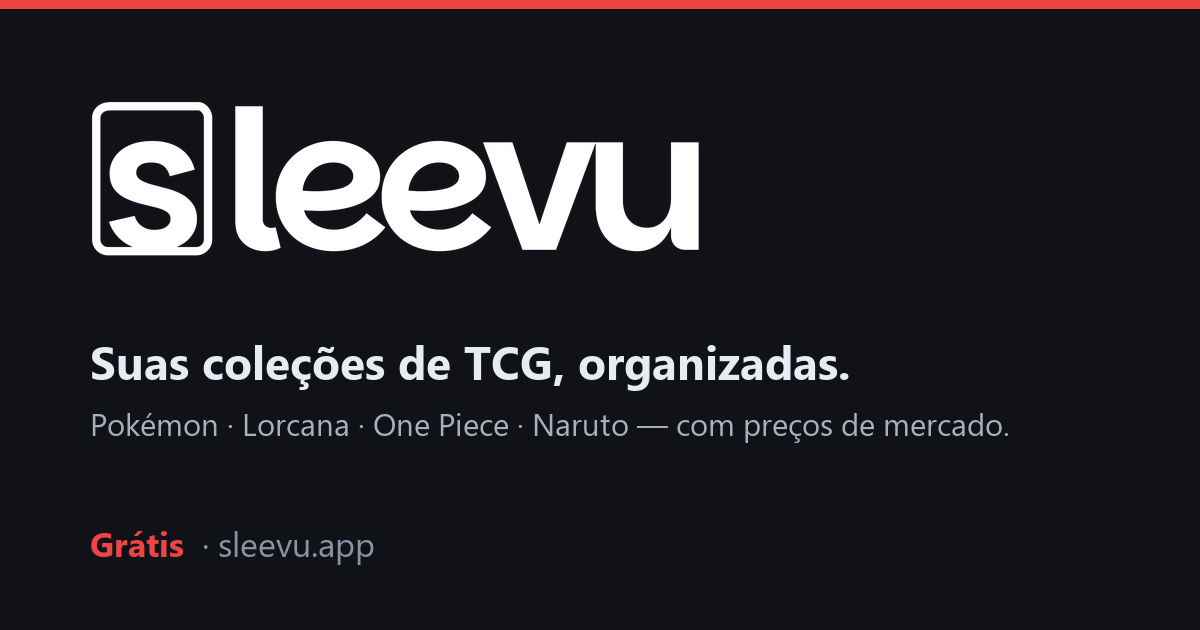
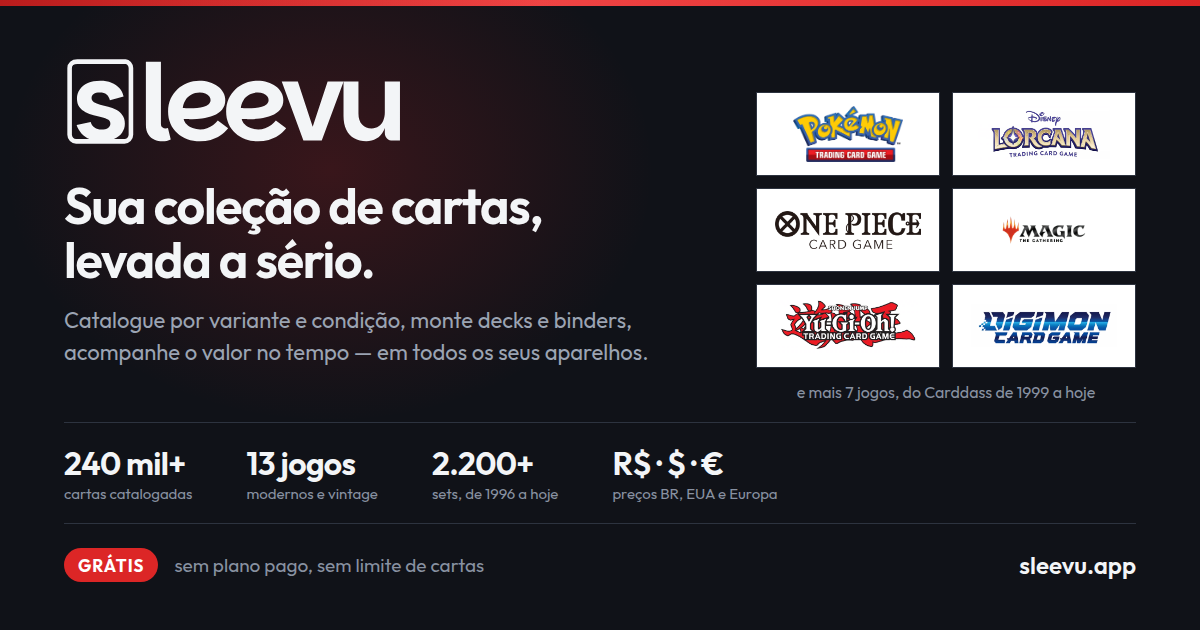
Imagem de compartilhamento: arte nova e gerada por template, não mais um bitmap solto
A prévia que o WhatsApp, o X e o Facebook mostram ao colar um link do site (o
/og-image.png, apontado pelo og:image das 22 páginas) era um PNG desenhado à
mão e commitado sem fonte nenhuma: mudar uma palavra exigia abrir um editor de
imagem e refazer a arte no olho. Foi por isso que ela ficou anunciando "suas
coleções de TCG, organizadas — Pokémon · Lorcana · One Piece · Naruto" muito
depois de o site ter 13 jogos com catálogo, 240 mil cartas, 2.200 sets, decks,
binders e preço em três moedas.

Agora o conteúdo mora num template (scripts/og/og-image.html — HTML+CSS comum,
com a Outfit e as cores do styles.css) e o scripts/build-og-image.mjs fotografa
isso num Chrome headless. Editar a chamada virou editar texto e rodar um
comando. O wordmark não é copiado pro template: é splicado do
assets/brand/sleevu-wordmark.svg na geração, então a marca segue com uma fonte
só e não envelhece de novo.

A arte nova mostra os seis jogos principais nas MESMAS cápsulas brancas da home
(fundo claro porque os logos são arte colorida que desaparece no escuro), com a
conta dos outros sete, e a faixa de números da .lp-stats — é o que conta que o
site cresceu. Conferido renderizando em 1200x630 e também a 360, 240 e 160px,
que é o tamanho em que a prévia de fato aparece num feed: nesse tamanho o
wordmark, a chamada, a grade de jogos e os números grandes continuam legíveis.

Duas armadilhas do headless, resolvidas com comentário no gerador: o viewport
[…]

diff --git a/scripts/og/og-image.html b/scripts/og/og-image.html
@@ -1,0 +1,140 @@
+<!doctype html>
+<!--
+  TEMPLATE da imagem de compartilhamento (og:image / twitter:image).
+  Renderize com:  node scripts/build-og-image.mjs
+  O resultado é o /og-image.png (1200x630) da raiz, que as 22 páginas apontam.
+
+  Regras deste arquivo:
+  - Tudo aqui é 1200x630 FIXO, em px. Não é uma página do site: não tem
+    responsivo, não tem i18n, não tem JS. O que vale é como sai no screenshot.
+  - As cores são as MESMAS do styles.css (--bg, --accent, --text, --subtle,
+    --line), copiadas como literal porque o Chromium abre este HTML por file://
+    sem o styles.css. Ao mudar a paleta do site, atualize aqui também.
+  - A fonte é a Outfit auto-hospedada do próprio repo.
+  - O marcador de wordmark (o comentário dentro da div.wordmark) é substituído
+    pelo assets/brand/sleevu-wordmark.svg na geração — não cole o SVG aqui,
+    senão a marca passa a ter duas fontes e uma delas envelhece.
+  - Os NÚMEROS abaixo são os mesmos da .lp-stats da home (index.html). Ao
+    recontar o catálogo, mude nos dois lugares e regenere a imagem.
+  - A prévia aparece pequena (num feed, ~360px de largura): nada de texto
+    menor que o que está aqui, e no máximo duas linhas por bloco.
+-->
+<html lang="pt-BR">
+  <head>
+    <meta charset="utf-8">
+    <title>og-image — Sleevu</title>
+    <style>
+      @font-face {
+        font-family: "Outfit";
+        font-style: normal;
+        font-weight: 100 900;
+        src: url("../../assets/fonts/outfit-latin.woff2") format("woff2");
+      }
+      * { margin: 0; padding: 0; box-sizing: border-box; }
+      html, body { width: 1200px; height: 630px; overflow: hidden; }
+      body {
+        position: relative;
+        background: #101218;
+        color: #f3f5f7;
+        font-family: "Outfit", system-ui, sans-serif;
+        font-synthesis: none;
+      }
+      /* Faixa da marca no topo — a única coisa herdada da arte antiga, porque
+         é o que faz a prévia ser reconhecida como Sleevu numa timeline. */
+      .bar {
+        position: absolute; inset: 0 0 auto; height: 6px;
+        background: linear-gradient(90deg, #b91c1c, #ef4444 45%, #dc2626);
+      }
+      /* Mesmo glow do herói da home (.lp-hero::before), só maior e jogado pro
+         canto do wordmark. Dá profundidade sem competir com o texto. */
+      .glow {
+        position: absolute; left: -120px; top: -180px; width: 900px; height: 700px;
+        background: radial-gradient(closest-side, rgba(220, 38, 38, 0.2), transparent 72%);
+      }
+      main {
+        position: relative; height: 100%;
+        padding: 56px 64px 48px;
+        display: flex; flex-direction: column; justify-content: space-between;
+      }
+      .wordmark svg { display: block; width: 340px; height: auto; color: #f3f5f7; }
+      h1 {
+        margin-top: 32px; max-width: 620px;
+        font-size: 50px; font-weight: 650; line-height: 1.08; letter-spacing: -0.025em;
+      }
+      /* 600px: a coluna de logos começa em x=756 — texto mais largo passava por
+         baixo dela ("acompanhe o" desaparecia atrás do Pokémon). */
+      .sub {
+        margin-top: 18px; max-width: 600px;
+        font-size: 22px; font-weight: 400; line-height: 1.45; color: #9ba4b3;
+      }
+      /* Jogos: as MESMAS cápsulas brancas da home (.lp-games-caps) — fundo
+         branco, borda de 1px, canto reto. Os logos são arte colorida feita pra
+         fundo claro; sobre o #101218 direto, metade deles desaparece.
+         Seis de treze, e o "+7" fecha a conta sem virar mosaico ilegível.
+         A linha do "+7" tem de caber em UMA linha (a segunda batia na hairline
+         dos números): no máximo ~44 caracteres com estes 16px. */
+      .logos {
+        position: absolute; right: 64px; top: 92px;
+        display: grid; grid-template-columns: repeat(2, 184px); gap: 12px;
+      }
+      .logos div {
+        height: 84px; background: #fff; border: 1px solid #2d333f;
+        display: flex; align-items: center; justify-content: center; padding: 13px 18px;
+      }
+      .logos img { max-width: 100%; max-height: 100%; object-fit: contain; }
+      .logos-mais {
+        grid-column: 1 / -1; text-align: center;
+        margin-top: 2px; font-size: 16px; color: #8891a1;
+      }
+      /* Números: as mesmas hairlines da .lp-stats da home. São eles que contam
+         que o site cresceu — a arte antiga listava 4 jogos, hoje são 13. */
+      .stats {
+        display: grid; grid-template-columns: repeat(4, max-content); gap: 0 54px;
+        border-top: 1px solid #2d333f; border-bottom: 1px solid #2d333f;
+        padding: 20px 0; margin-top: 30px;
+      }
+      .stats strong { display: block; font-size: 32px; font-weight: 650; letter-spacing: -0.02em; }
+      .stats span { font-size: 15px; color: #8891a1; }
+      .foot { display: flex; align-items: center; gap: 16px; font-size: 19px; }
+      .pill {
+        background: #dc2626; color: #fff; font-weight: 700; font-size: 17px;
+        letter-spacing: 0.06em; padding: 7px 14px 6px; border-radius: 999px;
+      }
+      .foot-note { color: #8891a1; }
+      .url { margin-left: auto; font-size: 24px; font-weight: 600; color: #f3f5f7; }
+    </style>
+  </head>
+  <body>
+    <div class="bar"></div>
+    <div class="glow"></div>
+    <main>
+      <div class="logos">
+        <div><img src="../../assets/games/game_pokemon.webp" alt="Pokémon TCG"></div>
+        <div><img src="../../assets/games/game_lorcana.webp" alt="Disney Lorcana"></div>
+        <div><img src="../../assets/games/game_onepiece.webp" alt="One Piece Card Game"></div>
+        <div><img src="../../assets/games/game_magic.webp" alt="Magic: The Gathering"></div>
+        <div><img src="../../assets/games/game_ygo.webp" alt="Yu-Gi-Oh!"></div>
+        <div><img src="../../assets/games/game_digimon.webp" alt="Digimon Card Game"></div>
+        <span class="logos-mais">e mais 7 jogos, do Carddass de 1999 a hoje</span>
+      </div>
+      <div>
+        <div class="wordmark"><!--WORDMARK--></div>
+        <h1>Sua coleção de cartas,<br>levada a sério.</h1>
+        <p class="sub">Catalogue por variante e condição, monte decks e binders, acompanhe o valor no tempo — em todos os seus aparelhos.</p>
+      </div>
+      <div>
+        <div class="stats">
+          <div><strong>240 mil+</strong><span>cartas catalogadas</span></div>
+          <div><strong>13 jogos</strong><span>modernos e vintage</span></div>
+          <div><strong>2.200+</strong><span>sets, de 1996 a hoje</span></div>
+          <div><strong>R$ · $ · €</strong><span>preços BR, EUA e Europa</span></div>
+        </div>
+      </div>
+      <div class="foot">
+        <span class="pill">GRÁTIS</span>
+        <span class="foot-note">sem plano pago, sem limite de cartas</span>
+        <span class="url">sleevu.app</span>
+      </div>
+    </main>
+  </body>
+</html>

diff --git a/README.md b/README.md
@@ -173,6 +173,33 @@ Ferramentas que rodam à mão (não estão em workflow nenhum):
 | `scripts/diff-computed-style.mjs` | confere que o `split-css.mjs` não mudou nenhum estilo computado (antes × depois, em duas portas) | idem |
 | `scripts/test-d1-search.mjs` | prova a busca da borda contra um SQLite real | `node scripts/build-d1.mjs` (gera `out/d1-cards.sql`); com o dump desatualizado ele acusa falhas que não são do código |
 | `scripts/seo-meta.mjs` | codemod de `<head>` do rebrand — **destrutivo, reescreve todos os HTML** | commit limpo e revisar o diff depois |
+| `scripts/build-og-image.mjs` | regera o `og-image.png` (a imagem que aparece quando alguém compartilha um link) a partir do template `scripts/og/og-image.html` | Chrome/Chromium instalado (ou `CHROME_PATH=/caminho/do/chrome`) |
+
+### Imagem de compartilhamento (og-image)
+
+O que o WhatsApp, o X e o Facebook mostram ao colar um link do site é o
+`/og-image.png` (1200x630), apontado pelo `og:image`/`twitter:image` das 22
+páginas e pelo `scripts/seo-meta.mjs`. Duas exceções sobrescrevem essa imagem
+genérica: as páginas de set pré-renderizadas usam o logo do set
+(`prerender-catalog.mjs`) e a `detail` na borda usa a arte da carta
+(`functions/detail.js`).
+
+O PNG é **gerado**, não desenhado à mão: o conteúdo mora no
+`scripts/og/og-image.html` (HTML+CSS comum, com a Outfit e a paleta do site) e
+o `build-og-image.mjs` fotografa isso num Chrome headless. Mudar a chamada é
+editar texto e rodar o script — antes disso era um bitmap solto no repo, sem
+fonte, e por isso a arte ficou anos anunciando "Pokémon · Lorcana · One Piece ·
+Naruto" enquanto o site já tinha 13 jogos.
+
+Fora do CI de propósito: comparar bytes de renderização entre versões do
+Chromium daria falso positivo em todo bump. O PNG é versionado; regere e
+commite quando mudar.
+
+**Depois de trocar a arte:** as redes guardam a prévia pela URL DA PÁGINA, não
+pela da imagem — renomear o PNG não adianta. Force o re-scrape no
+[Sharing Debugger](https://developers.facebook.com/tools/debug/) do Facebook e
+no [Card Validator](https://cards-dev.twitter.com/validator) do X; o WhatsApp
+solta sozinho em algumas semanas.
 
 ---
 
